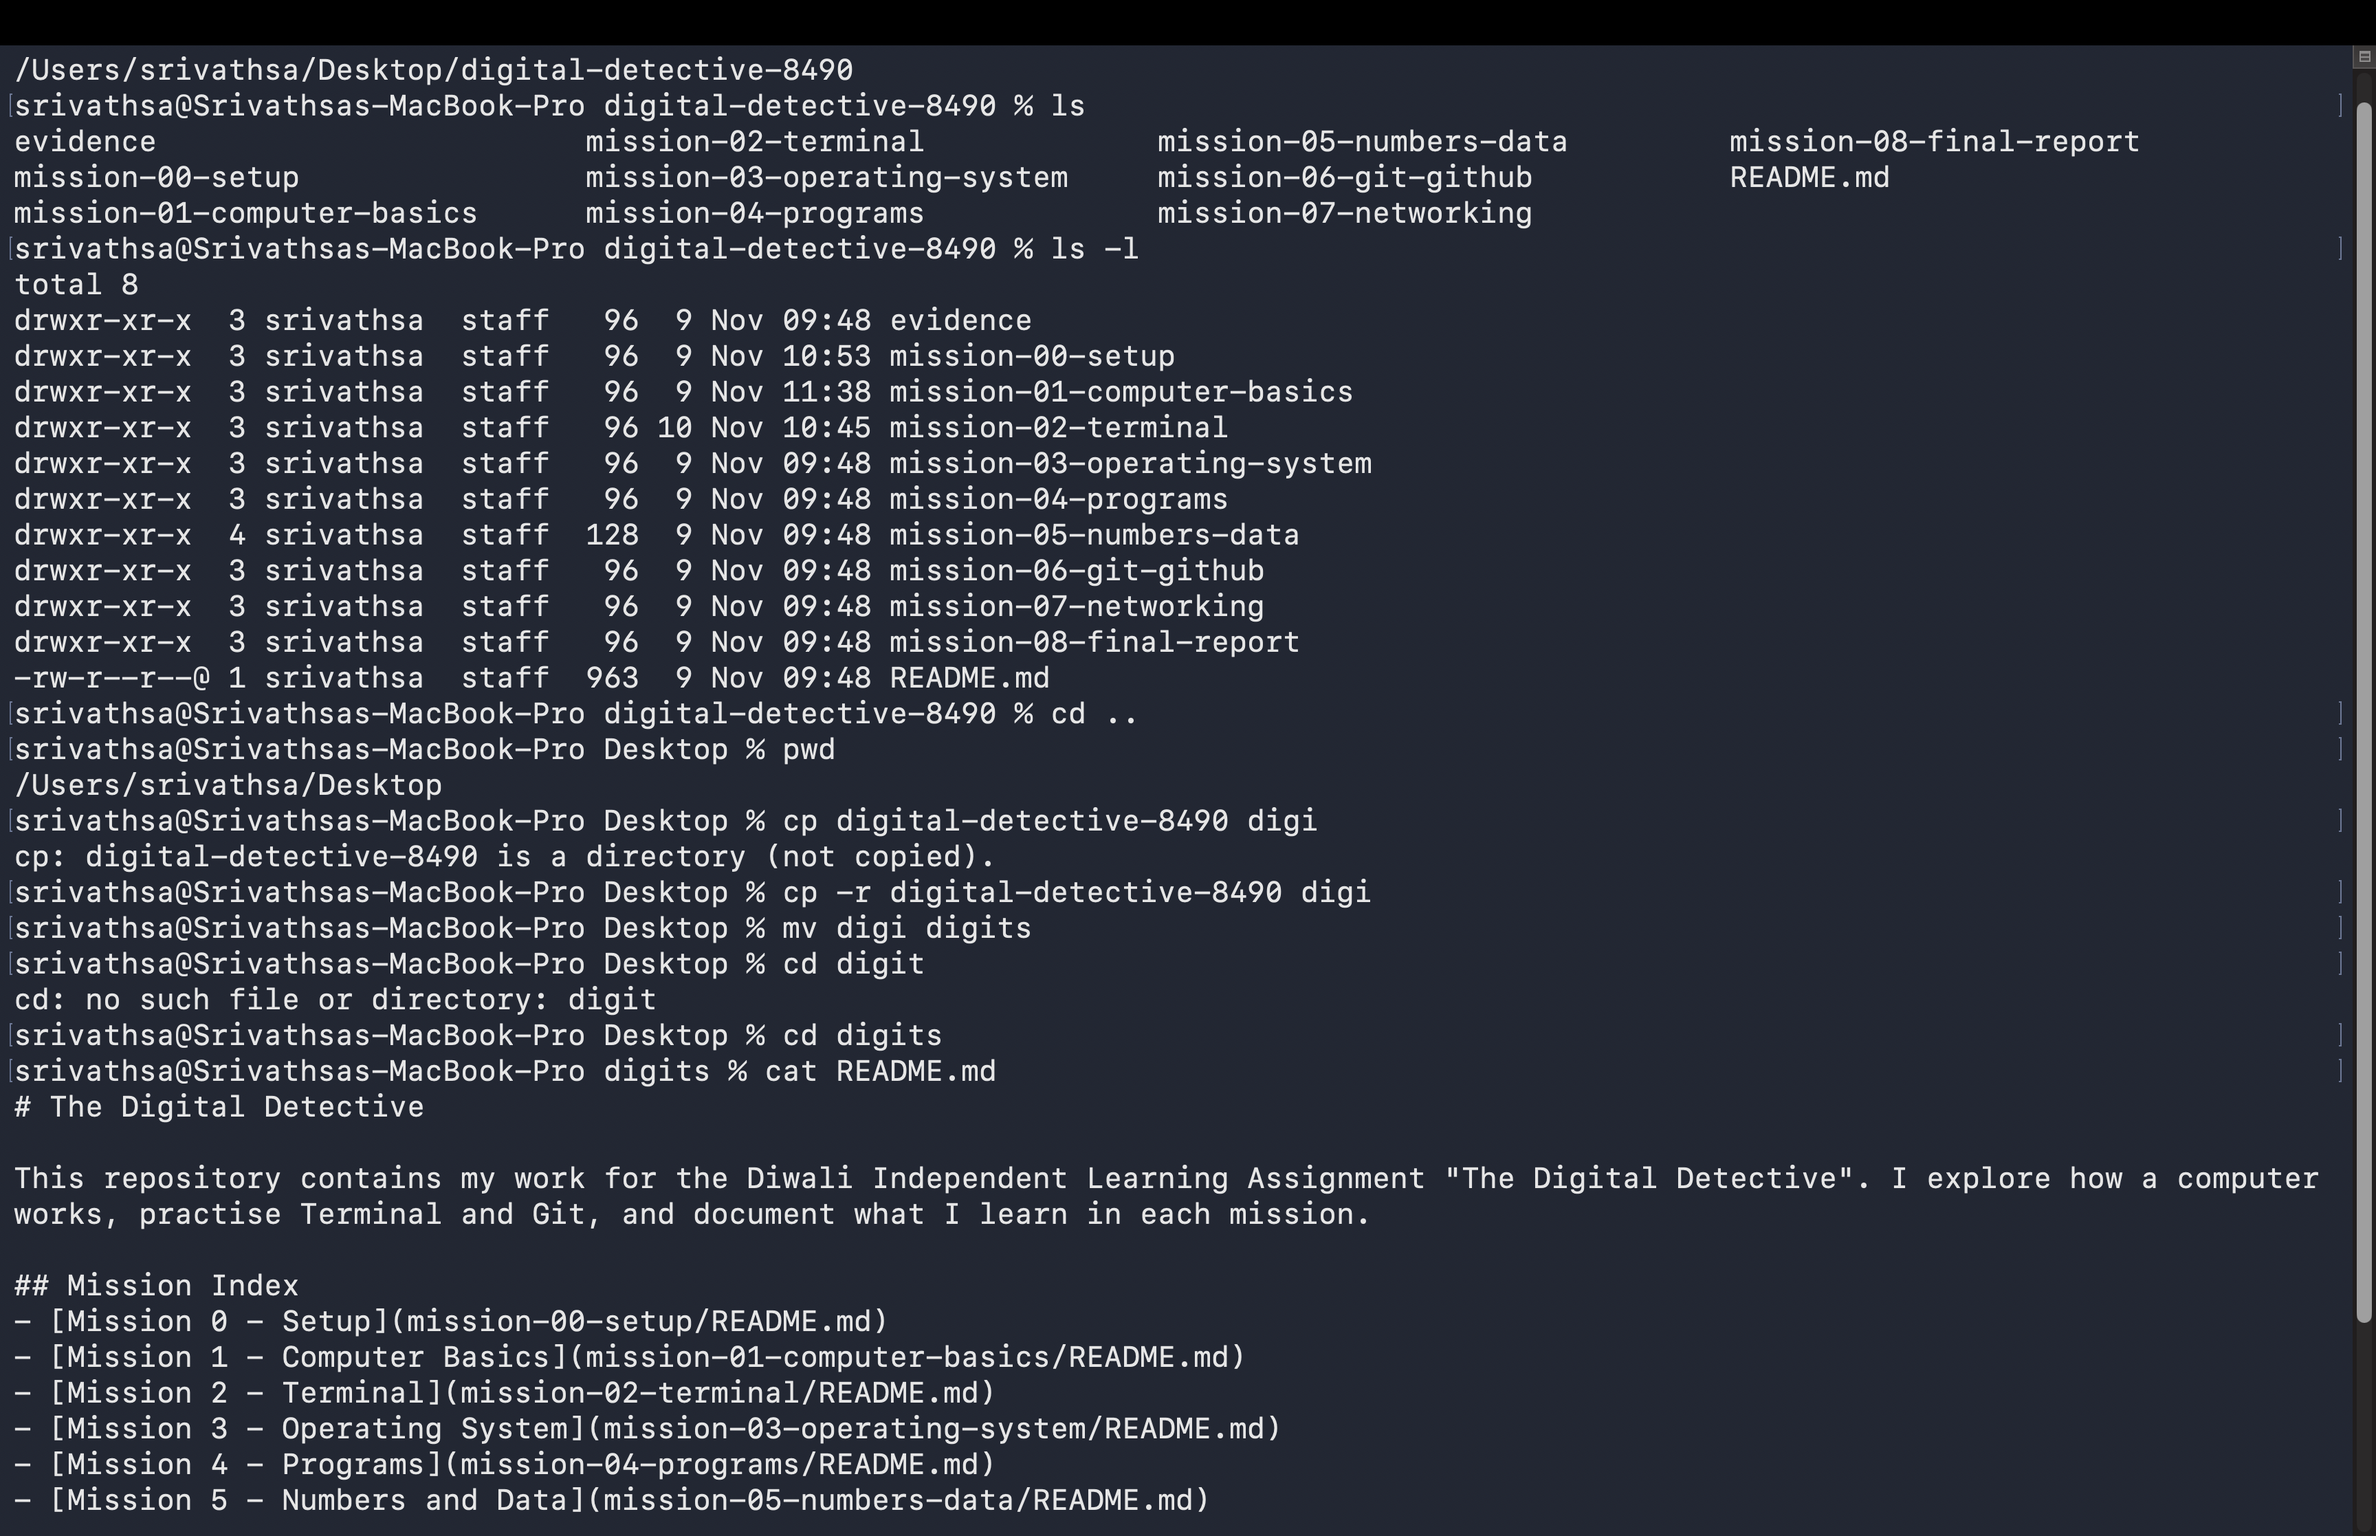
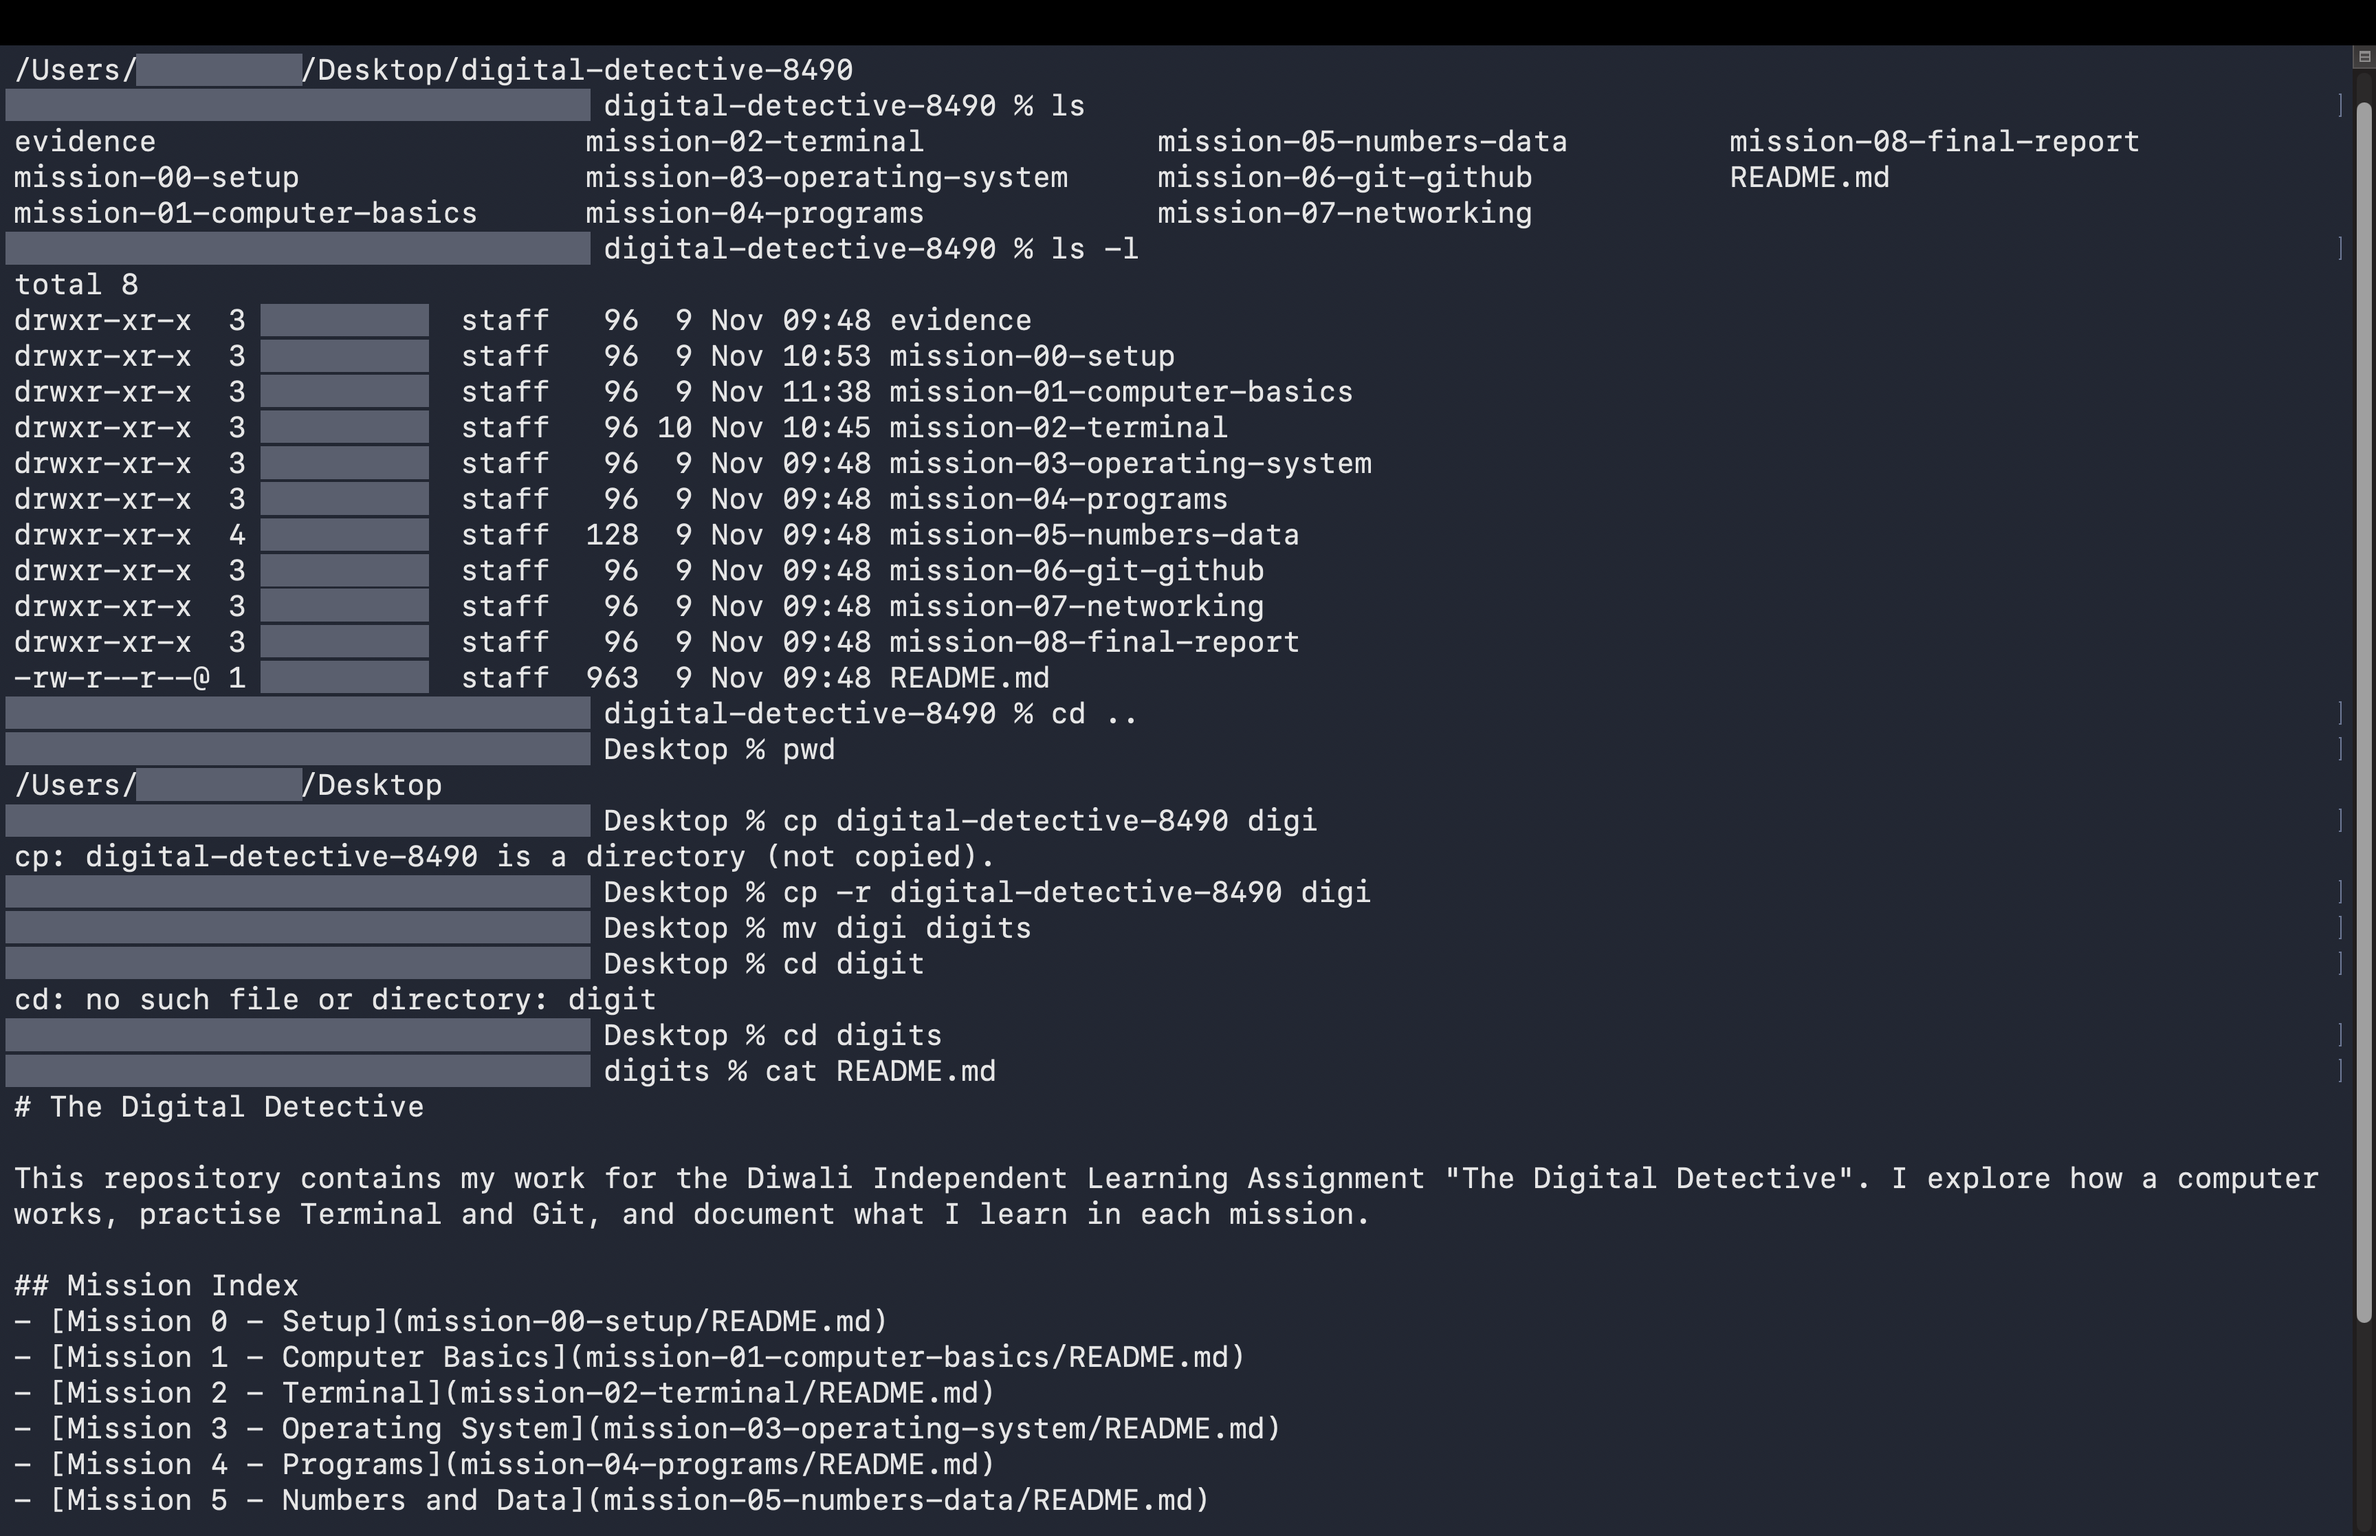
Hide computer name and username in screenshots and Mission 3 text

Changed region(s): [[0.0, 0.1235, 0.25, 0.7104], [0.0, 0.0309, 0.25, 0.0927]]

diff --git a/mission-03-operating-system/README.md b/mission-03-operating-system/README.md
@@ -5,8 +5,8 @@
 ### Exploring the operating system
 | Information explored | Command | What it tells me | My observation (privacy-safe) |
 |---|---|---|---|
-| Operating system details | `uname -a` | Which OS and kernel is running, and the machine type | It printed Darwin, then a version number, then the chip type. The device name was Srivathsas-MacBook-Pro.local |
-| Current account identity | `whoami` | The name of the account I'm logged in as | It printed my account name, srivathsa |
+| Operating system details | `uname -a` | Which OS and kernel is running, and the machine type | It printed Darwin, then a version number, then the chip type. The device name was my Mac's name, which I hid for privacy |
+| Current account identity | `whoami` | The name of the account I'm logged in as | It printed my account name, which I hid for privacy |
 | Available and used storage | `df -h` | How much disk space is used and how much is free, in readable sizes | The main disk showed about half used and about half free |
 | System activity snapshot | `top -l 1 \| head -15` | A quick look at CPU use, memory use and running processes | The top lines showed CPU and memory usage and a list of busy processes |
 
@@ -21,7 +21,7 @@ Finder and Terminal.
 
 ### Paths and permissions
 Absolute path vs relative path, with one example of each from my folder:
-- Absolute path starts from the root `/`: `/Users/srivathsa/Desktop/digital-detective-8490/mission-03-operating-system/README.md`
+- Absolute path starts from the root `/`: `/Users/<my-username>/Desktop/digital-detective-8490/mission-03-operating-system/README.md`
 - Relative path starts from the current folder: `mission-03-operating-system/README.md`
 
 Permissions of one file in my practice area (owner can read, write, execute?):
